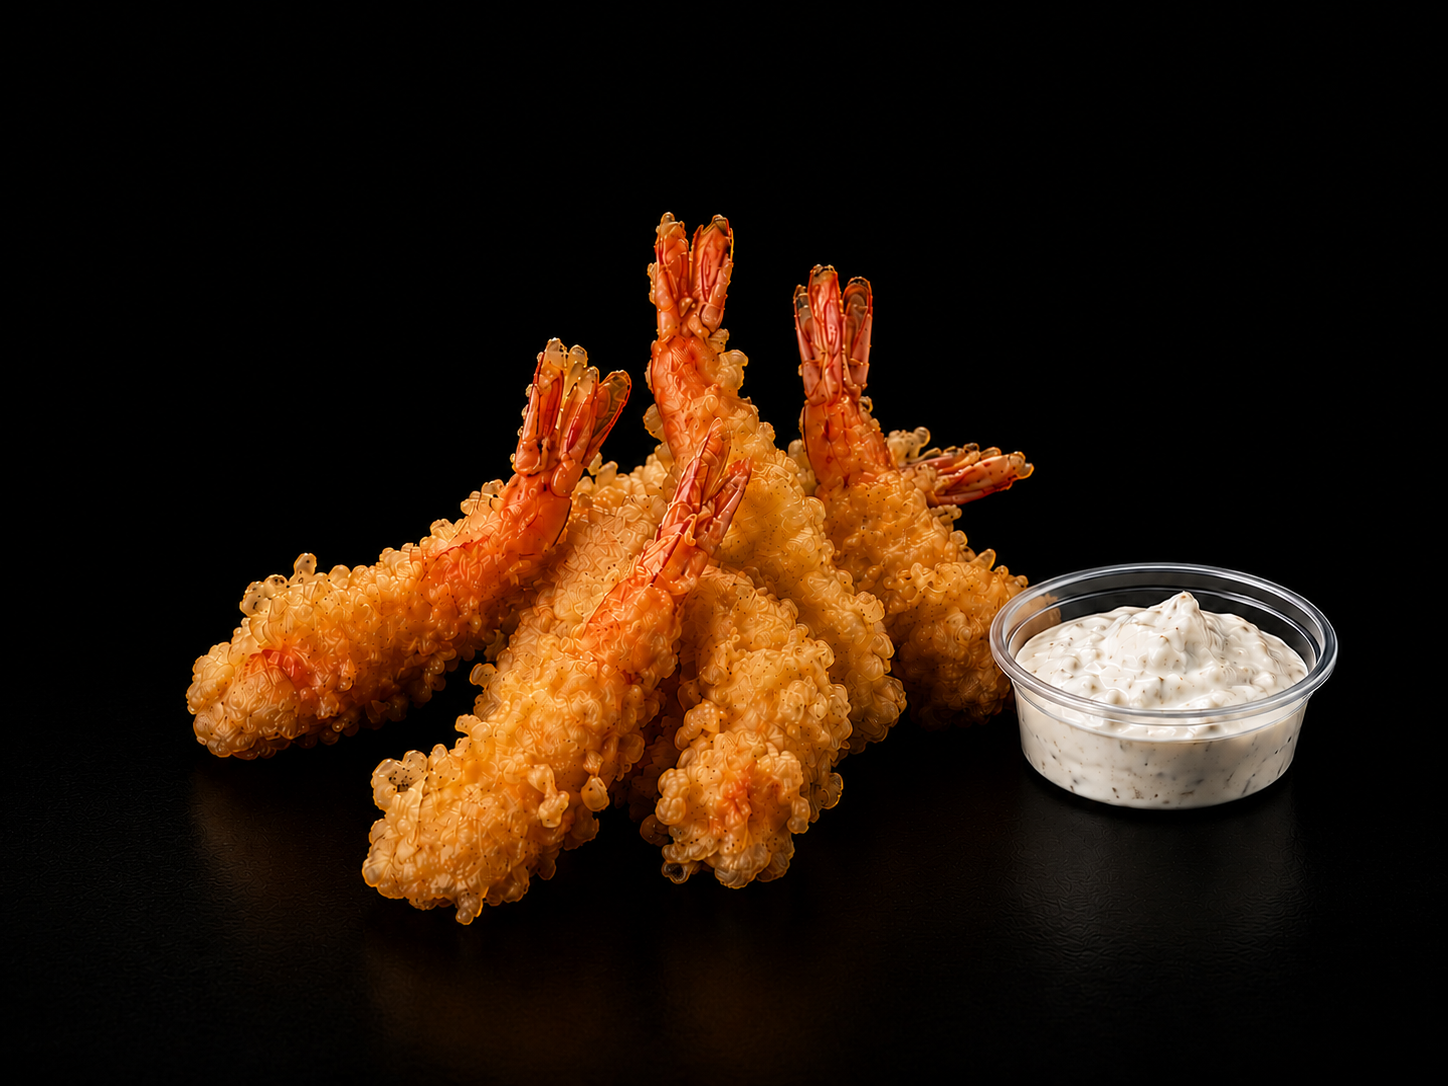
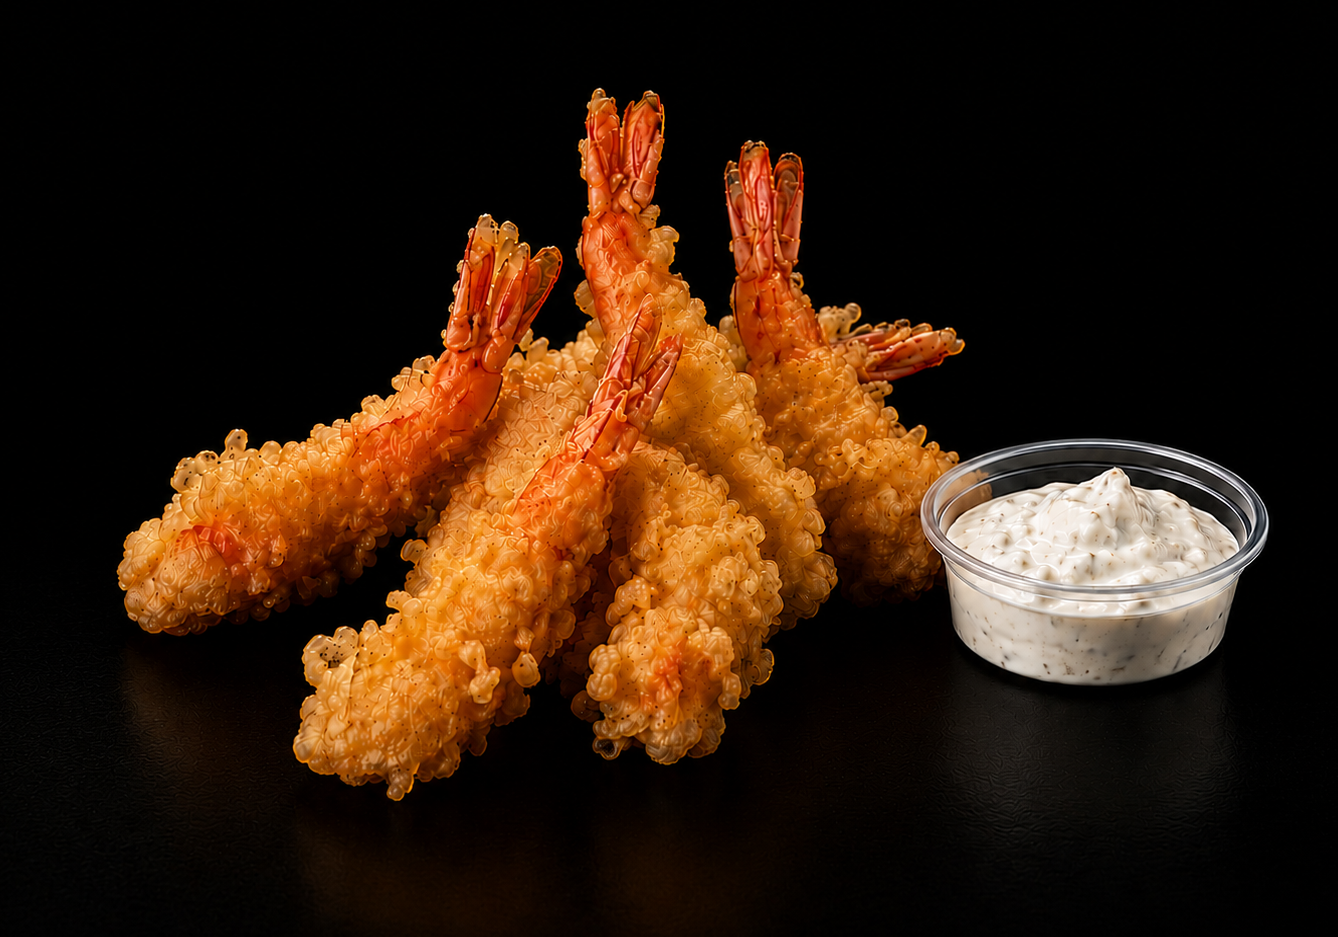
fix: remove fortune wheel from home page
Hide LuckyWheelWidget on the main menu so the wheel no longer appears in production.

Changed region(s): [[0.0919, 0.0928, 0.9499, 0.8666], [0.0919, 0.7118, 0.1532, 0.8047]]

diff --git a/app/page.tsx b/app/page.tsx
@@ -1,7 +1,6 @@
 import { Header } from "@/components/Header";
 import { BottomNav } from "@/components/BottomNav";
 import { MenuList } from "@/components/MenuList";
-import { LuckyWheelWidget } from "@/components/LuckyWheelWidget";
 import { TikTokButton } from "@/components/TikTokButton";
 import { MENU_AND_HOOKAH_ITEMS, MENU_ITEMS } from "@/data/menu";
 import { HOOKAH_MENU_ENABLED } from "@/lib/menuFeatures";
@@ -17,7 +16,6 @@ export default async function HomePage() {
       </main>
       <BottomNav />
       <TikTokButton />
-      <LuckyWheelWidget />
     </>
   );
 }